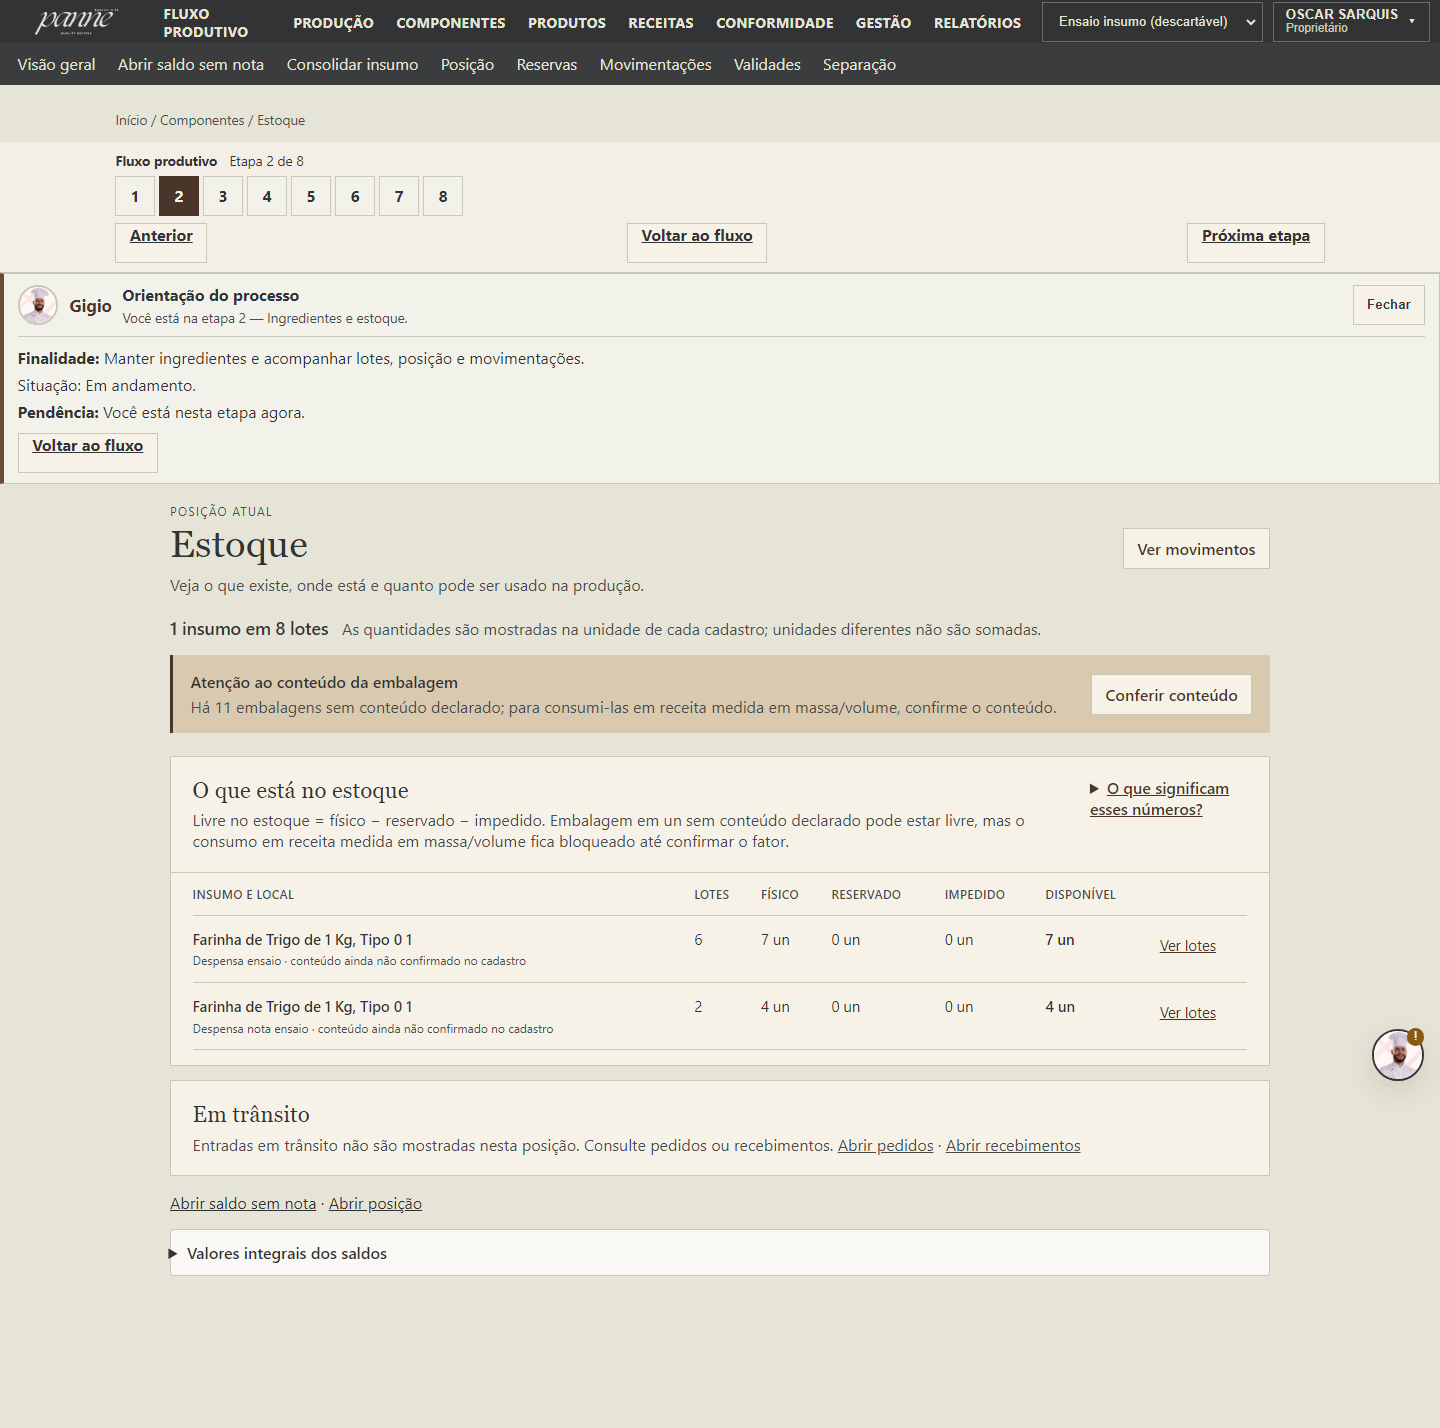
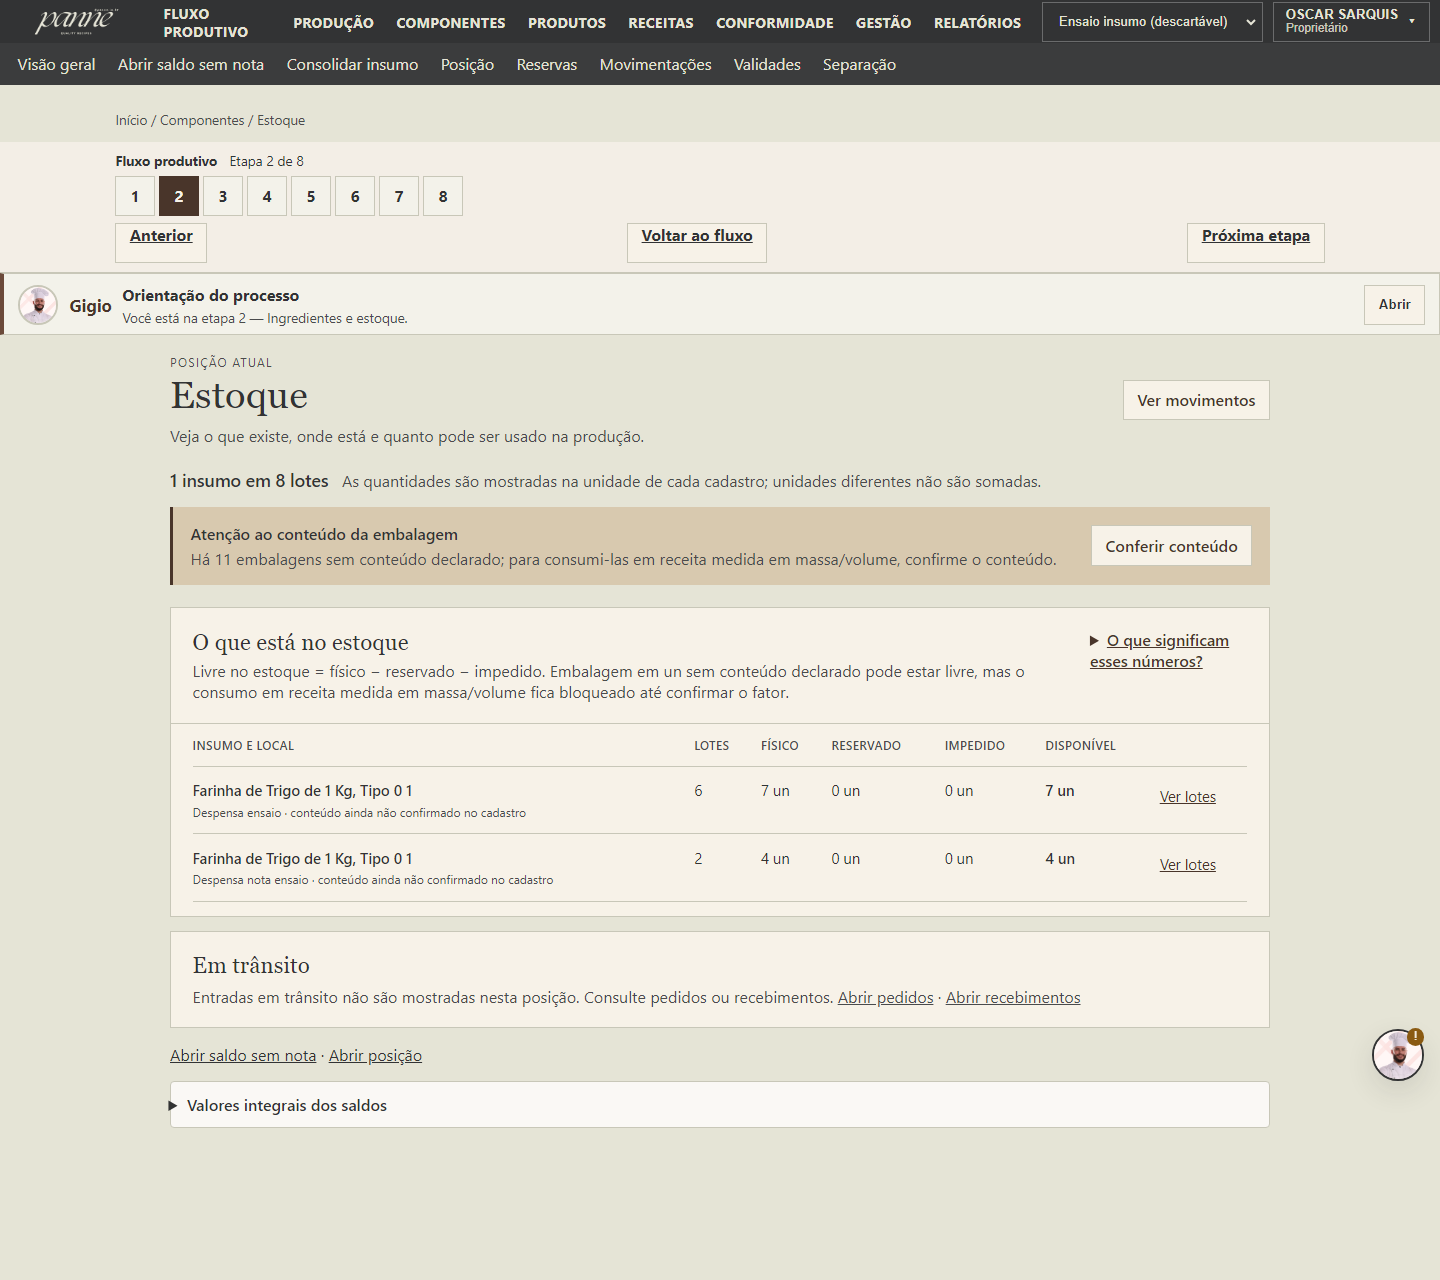
fix(panne): manter a orientação recolhida ao expandir lotes
A visão geral do Estoque começa com o Gigio fechado; só o botão Abrir abre o painel no fluxo.

diff --git a/panne/frontend/src/estoque-visao.test.tsx b/panne/frontend/src/estoque-visao.test.tsx
@@ -10,6 +10,7 @@ import {
   overviewTransitCaption,
   unconfirmedPackageNotice,
 } from "./language/inventory";
+import { shouldStartCoachCollapsed } from "./fluxo/formRoutes";
 import { formatOperationalQuantity } from "./language/quantities";
 import { installApiMock, json } from "./test/fetchMock";
 import { renderApp } from "./test/renderApp";
@@ -302,5 +303,46 @@ describe("visão geral do Estoque — prévia útil", () => {
     );
     expect(fisico.textContent).toBe(before);
     expect(screen.getByRole("heading", { name: "Estoque" })).toBeInTheDocument();
+  });
+});
+
+describe("orientação na visão geral do Estoque", () => {
+  it("recolhe em /componentes/estoque sem tratar a rota como formulário", () => {
+    stubViewport(1440, 900);
+    expect(shouldStartCoachCollapsed("/componentes/estoque")).toBe(true);
+    expect(shouldStartCoachCollapsed("/componentes/estoque/posicao")).toBe(false);
+  });
+
+  it("não abre o Gigio ao expandir lotes; só abre e fecha no acionador", async () => {
+    stubViewport(390, 844);
+    installApiMock();
+    localStorage.setItem("panne.activeOrganization", ORG_A);
+    const user = userEvent.setup();
+    await renderApp("/componentes/estoque");
+    expect(await screen.findByRole("heading", { name: "O que está no estoque" })).toBeInTheDocument();
+
+    const coach = await screen.findByRole("complementary", { name: "Orientação do processo" });
+    expect(coach).toHaveClass("is-collapsed");
+    expect(coach).toHaveClass("flow-coach--form");
+    expect(within(coach).queryByText(/Finalidade/)).not.toBeInTheDocument();
+
+    const mobile = document.querySelector(".estoque-util__mobile") as HTMLElement;
+    const card = within(mobile).getAllByText("Farinha de trigo tipo 1")[0].closest("article") as HTMLElement;
+    await user.click(within(card).getByRole("button", { name: "Ver lotes" }));
+    expect(within(card).getByRole("button", { name: "Ocultar lotes" })).toBeInTheDocument();
+    expect(screen.getByText("LOT-000001")).toBeInTheDocument();
+    expect(coach).toHaveClass("is-collapsed");
+    expect(within(coach).queryByText(/Finalidade/)).not.toBeInTheDocument();
+
+    const toggle = within(coach).getByRole("button", { name: "Abrir" });
+    await user.click(toggle);
+    expect(coach).toHaveClass("is-open");
+    expect(within(coach).getByText(/Finalidade/)).toBeInTheDocument();
+    expect(screen.getByText("LOT-000001")).toBeInTheDocument();
+
+    await user.keyboard("{Escape}");
+    expect(coach).toHaveClass("is-collapsed");
+    expect(within(coach).getByRole("button", { name: "Abrir" })).toHaveFocus();
+    expect(screen.getByText("LOT-000001")).toBeInTheDocument();
   });
 });

diff --git a/panne/frontend/src/fluxo/FlowCoachPanel.tsx b/panne/frontend/src/fluxo/FlowCoachPanel.tsx
@@ -6,7 +6,7 @@ import { useEffect, useId, useRef, useState } from "react";
 import { Link, useLocation } from "react-router-dom";
 import { GigioIdentity } from "../assistant/GigioIdentity";
 import { useOrganization } from "../session/OrganizationContext";
-import { isManualFormRoute, shouldStartCoachCollapsed } from "./formRoutes";
+import { coachOccupiesFlow, shouldStartCoachCollapsed } from "./formRoutes";
 import { useFlowEvidence } from "./useFlowEvidence";
 import {
   buildOrientation,
@@ -30,7 +30,7 @@ export function FlowCoachPanel({ forcedStep = null }: Props) {
   const titleId = useId();
   const bodyId = useId();
   const toggleRef = useRef<HTMLButtonElement>(null);
-  const formRoute = isManualFormRoute(location.pathname);
+  const inFlow = coachOccupiesFlow(location.pathname);
   const [open, setOpen] = useState(() => !shouldStartCoachCollapsed(location.pathname));
   const [cached, setCached] = useState<OrientationResult | null>(null);
 
@@ -120,7 +120,7 @@ export function FlowCoachPanel({ forcedStep = null }: Props) {
 
   return (
     <aside
-      className={`flow-coach${open ? " is-open" : " is-collapsed"}${formRoute ? " flow-coach--form" : ""}`}
+      className={`flow-coach${open ? " is-open" : " is-collapsed"}${inFlow ? " flow-coach--form" : ""}`}
       aria-label="Orientação do processo"
       aria-labelledby={titleId}
     >

diff --git a/panne/frontend/src/fluxo/formRoutes.ts b/panne/frontend/src/fluxo/formRoutes.ts
@@ -6,10 +6,20 @@ export function isManualFormRoute(pathname: string): boolean {
   return /^\/gestao\/compras\/entradas\/[^/]+$/.test(pathname);
 }
 
+/** Visão geral do Estoque: mesma recolha da orientação, sem virar formulário. */
+export function isInventoryOverviewRoute(pathname: string): boolean {
+  return pathname === "/componentes/estoque";
+}
+
 export function shouldStartCoachCollapsed(pathname: string): boolean {
-  if (isManualFormRoute(pathname)) return true;
+  if (isManualFormRoute(pathname) || isInventoryOverviewRoute(pathname)) return true;
   if (typeof window !== "undefined" && typeof window.matchMedia === "function") {
     return window.matchMedia("(max-width: 720px)").matches;
   }
   return false;
+}
+
+/** Aberto, o painel ocupa o fluxo em vez de grudar por cima do conteúdo. */
+export function coachOccupiesFlow(pathname: string): boolean {
+  return isManualFormRoute(pathname) || isInventoryOverviewRoute(pathname);
 }

diff --git a/panne/frontend/src/insumo-manual-uso.test.tsx b/panne/frontend/src/insumo-manual-uso.test.tsx
@@ -46,6 +46,7 @@ describe("rotas de formulário manual", () => {
     expect(isManualFormRoute("/gestao/compras/entradas")).toBe(false);
     expect(isManualFormRoute("/gestao/compras/entradas/nova")).toBe(false);
     expect(isManualFormRoute("/componentes/estoque")).toBe(false);
+    expect(shouldStartCoachCollapsed("/componentes/estoque")).toBe(true);
   });
 });
 

diff --git a/panne/documentacao/evidencias/cursor-insumo-manual/GATE-ESTOQUE.md b/panne/documentacao/evidencias/cursor-insumo-manual/GATE-ESTOQUE.md
@@ -5,7 +5,7 @@ React autenticada local. Sem publicação. Sem mutação de dados reais.
 - Frontend: `http://127.0.0.1:5182`
 - Rota: `/componentes/estoque`
 - Prévia aprovada: `previa-estoque/estoque-util.html`
-- 1440: tabela por insumo/local; 390: cartões com Ver lotes; scrollWidth = 390
+- 1440: tabela; 390: cartões, Ver lotes sem abrir Gigio, abertura explícita; scrollWidth = 390
 
 | Captura | URL | PNG |
 |---|---|---|
@@ -13,5 +13,7 @@ React autenticada local. Sem publicação. Sem mutação de dados reais.
 | estoque-lotes-1440 | http://127.0.0.1:5182/componentes/estoque | 1440px |
 | estoque-390 | http://127.0.0.1:5182/componentes/estoque | 390px |
 | estoque-lotes-390 | http://127.0.0.1:5182/componentes/estoque | 390px |
+| estoque-gigio-390 | http://127.0.0.1:5182/componentes/estoque | 390px |
+| estoque-gigio-fechado-390 | http://127.0.0.1:5182/componentes/estoque | 390px |
 
 Organização de ensaio: Ensaio insumo (descartável) (c7b1dbca-b26d-419b-bcda-ec352f319128).
